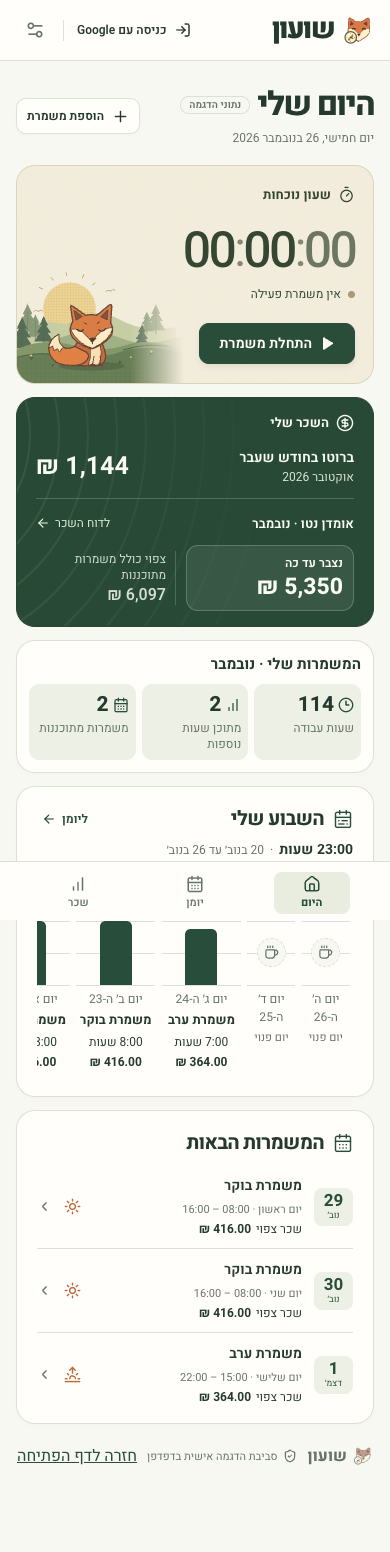
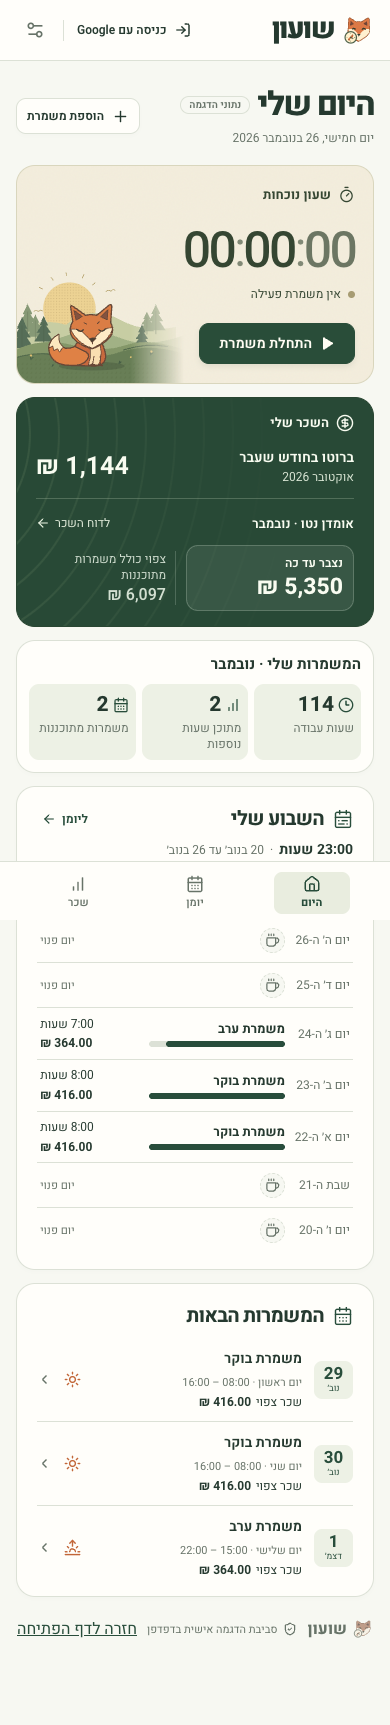
Fit all seven days in the mobile shift graph

diff --git a/src/style.css b/src/style.css
@@ -905,6 +905,7 @@ button:not(:disabled):active {
   background: repeating-linear-gradient(to bottom, var(--line) 0 1px, transparent 1px 50%);
 }
 .week-shift-bar {
+  height: var(--week-bar-size);
   width: min(55%, 2rem);
   background: var(--week-shift-tone);
   border-radius: 0.35rem 0.35rem 0 0;
@@ -926,6 +927,73 @@ button:not(:disabled):active {
 }
 .week-shift-totals .shift-gross {
   justify-content: center;
+}
+@media (max-width: 740px) {
+  .week-shifts {
+    display: grid;
+    overflow: visible;
+    padding: 0;
+  }
+  .week-shifts li + li {
+    border-top: 1px solid var(--line);
+  }
+  .week-shift {
+    grid-template-columns: 3.5rem minmax(0, 1fr) 6.25rem;
+    grid-template-rows: auto auto;
+    align-content: center;
+    align-items: center;
+    justify-items: stretch;
+    gap: 0.2rem 0.55rem;
+    min-height: 44px;
+    padding: 0.4rem 0.2rem;
+    text-align: start;
+  }
+  .week-shift-date {
+    grid-area: 1 / 1 / span 2 / 2;
+  }
+  .week-shift-name {
+    grid-area: 1 / 2;
+    align-self: end;
+  }
+  .week-shift-plot {
+    grid-area: 2 / 2;
+    align-self: start;
+    justify-content: start;
+    align-items: stretch;
+    height: 6px;
+    border: 0;
+    border-radius: 999px;
+    background: var(--line);
+  }
+  .week-shift-bar {
+    width: var(--week-bar-size);
+    height: 100%;
+    border-radius: inherit;
+  }
+  .week-shift-missing {
+    display: none;
+  }
+  .week-shift-totals {
+    grid-area: 1 / 3 / span 2 / 4;
+    justify-items: end;
+  }
+  .week-shift-totals .shift-gross {
+    justify-content: end;
+  }
+  .week-day-off .week-shift-plot {
+    grid-area: 1 / 2 / span 2 / 3;
+    align-self: center;
+    height: auto;
+    background: none;
+  }
+  .week-off-icon {
+    width: 1.55rem;
+    height: 1.55rem;
+  }
+  .week-off-label {
+    grid-area: 1 / 3 / span 2 / 4;
+    justify-self: end;
+  }
 }
 .upcoming .panel-heading {
   margin-bottom: 8px;

diff --git a/src/components/Dashboard.tsx b/src/components/Dashboard.tsx
@@ -1,4 +1,4 @@
-import { useEffect, useMemo, useState } from 'react'
+import { useEffect, useMemo, useState, type CSSProperties } from 'react'
 import {
   ArrowLeft,
   CalendarDays,
@@ -204,7 +204,7 @@ function Weekly({ today, shifts, shiftPayById, onCalendar, onShift }: Pick<Props
                   <span className="week-shift-plot" aria-hidden="true">
                     {value === undefined
                       ? <span className="week-shift-missing">—</span>
-                      : <span className="week-shift-bar" style={{ height: value / ceiling * 100 + '%' }} />}
+                      : <span className="week-shift-bar" style={{ '--week-bar-size': value / ceiling * 100 + '%' } as CSSProperties} />}
                   </span>
                   <span className="week-shift-date">{label}</span>
                   <strong className="week-shift-name">{shift.title || 'משמרת עבודה'}</strong>

diff --git a/README.md b/README.md
@@ -16,7 +16,7 @@
 
 | מסך | מה עושים בו |
 | --- | --- |
-| **היום שלי** | מתחילים ומסיימים משמרת, רושמים הפסקות ורואים בגרף השבועי את שעות העבודה והשכר לכל משמרת בשבעת הימים האחרונים. ימים בלי משמרות מסומנים כימים פנויים. אפשר להחליף את מדד העמודות בין שעות לשכר. לכל משמרת מתוכננת מוצג השכר הצפוי. לצד השעון מופיעים הברוטו של החודש הקודם, אומדן הנטו שנצבר החודש, שמוצג בהבלטה, והתחזית לסופו. |
+| **היום שלי** | מתחילים ומסיימים משמרת, רושמים הפסקות ורואים בגרף השבועי את שעות העבודה והשכר לכל משמרת בשבעת הימים האחרונים. ימים בלי משמרות מסומנים כימים פנויים. אפשר להחליף את מדד הגרף בין שעות לשכר. בנייד כל הימים מוצגים בפסים אופקיים ללא גלילה לצדדים. לכל משמרת מתוכננת מוצג השכר הצפוי. לצד השעון מופיעים הברוטו של החודש הקודם, אומדן הנטו שנצבר החודש, שמוצג בהבלטה, והתחזית לסופו. |
 | **יומן המשמרות** | בודקים מה עבדתם ומה מתוכנן, מזינים שעות בדיעבד ומחילים אותן שעות על כמה ימים. בכל שורה מופיע השכר למשמרת כולה או השכר הצפוי למשמרת מתוכננת. משמרת שחוצה חצות מופיעה ביומן ביום שבו התחילה, עם כל שעות העבודה והשכר שלה. בטופס המשמרת מוצגות כברירת מחדל שעות ידניות. אפשר לעבור לבחירה מתבנית ולהוסיף הערה ישירות. בעריכת משמרת קיימת אפשר למחוק אותה אחרי אישור מפורש. |
 | **השכר שלי** | בוחרים חודש ומשווים בין מה שנצבר בפועל לבין התחזית הכוללת משמרות מתוכננות. הדוח מפרט ברוטו, נטו משוער, ניכויים ושעות נוספות. אפשר להזין נתוני תלוש לחודש שנבחר, כולל חודשים קודמים. |
 | **הגדרות** | מעדכנים את שאלון השכר, נקודות זיכוי, הגדרות פנסיה, תעריפים לפי תאריך, ימי מנוחה וחגים ותבניות משמרת. לחיצה על תבנית פותחת עריכה של השם ושעות המשמרת בחלון קצר. אפשר לבחור מראה בהיר, כהה, מרווה או התאמה למכשיר. |
